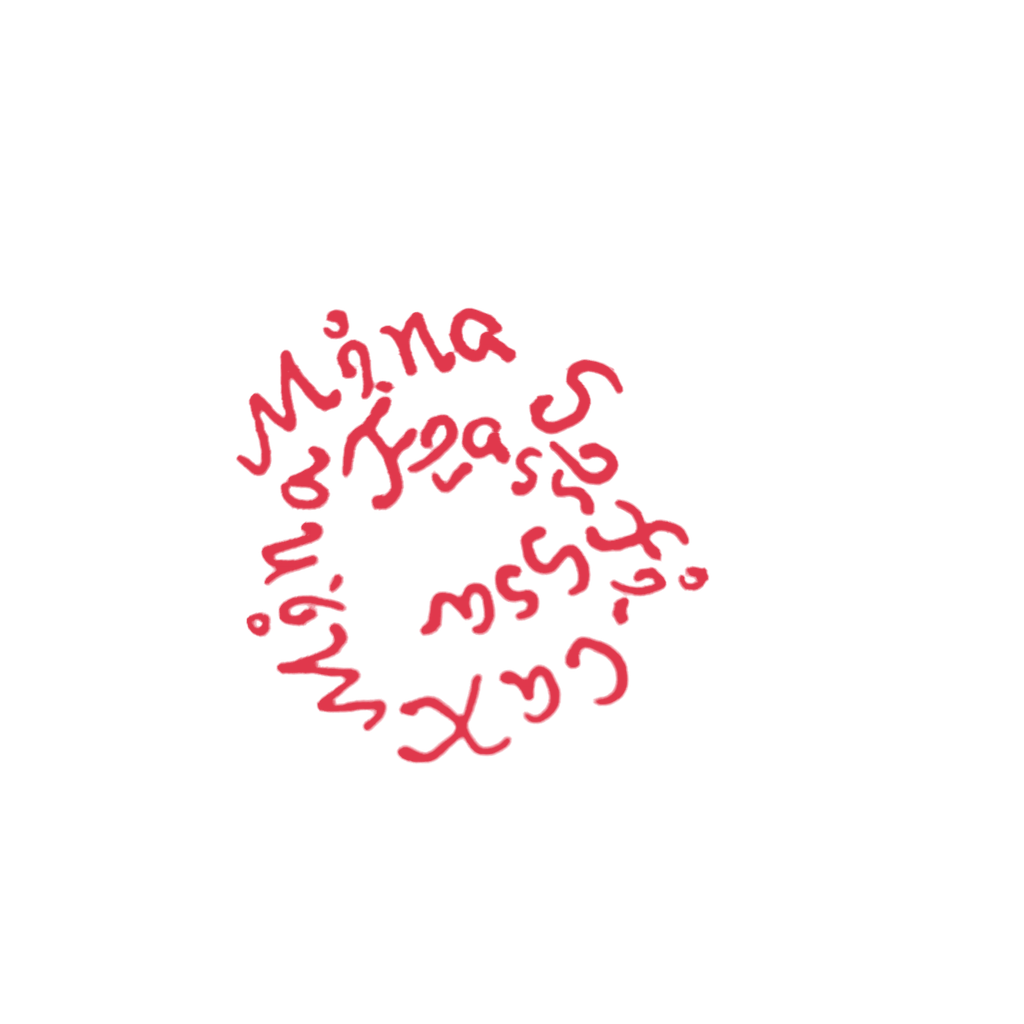
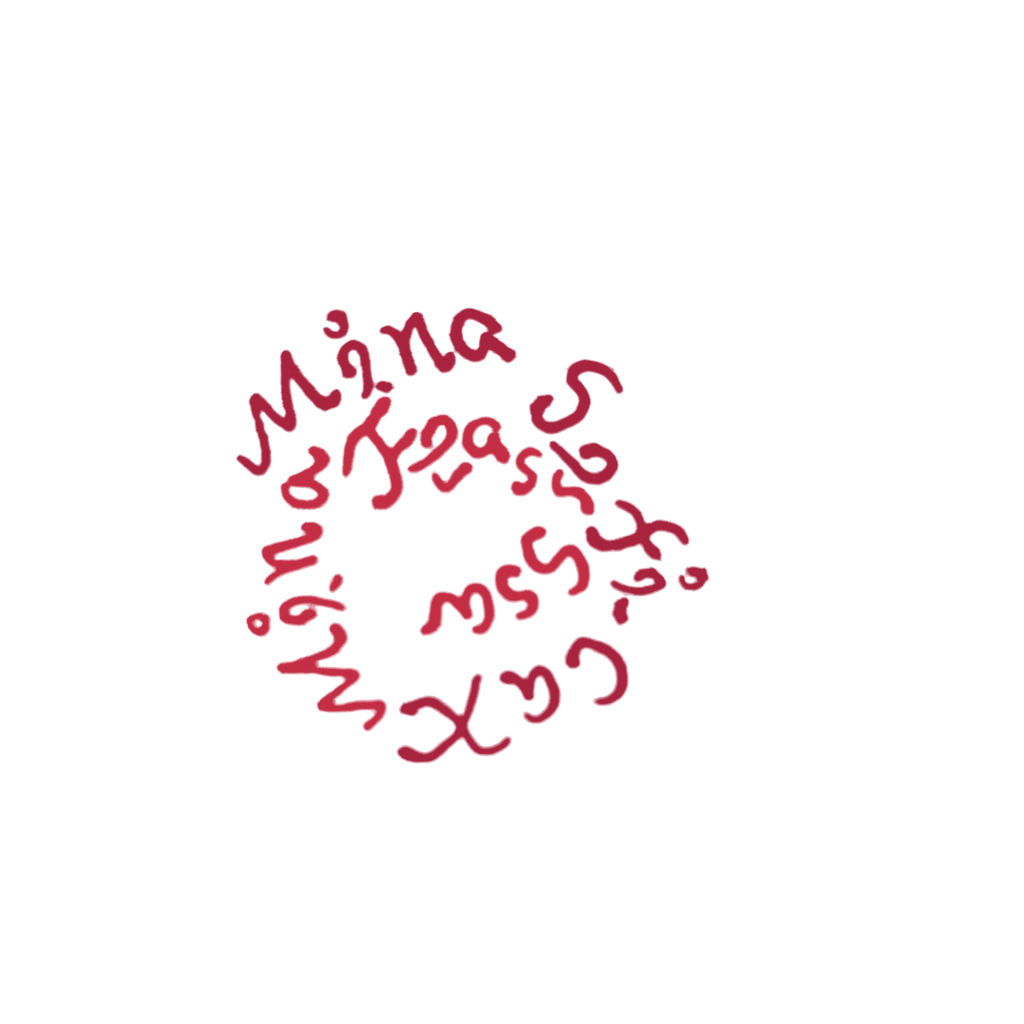
hub: small update

Changed region(s): [[0.2188, 0.2812, 0.6875, 0.75]]

diff --git a/index.html b/index.html
@@ -163,8 +163,8 @@ input[type=password]:disabled,button.go:disabled{opacity:.45;cursor:not-allowed}
   <div class="ring" aria-hidden="true">
     <img class="c4" src="assets/circle/l4.webp?v=1" width="1024" height="1024" alt="" decoding="async" draggable="false">
     <img class="c3" src="assets/circle/l3.webp?v=1" width="1024" height="1024" alt="" decoding="async" draggable="false">
-    <img class="c2" src="assets/circle/l2.webp?v=1" width="1024" height="1024" alt="" decoding="async" draggable="false">
-    <img class="c1" src="assets/circle/l1.webp?v=1" width="1024" height="1024" alt="" decoding="async" draggable="false">
+    <img class="c2" src="assets/circle/l2.webp?v=2" width="1024" height="1024" alt="" decoding="async" draggable="false">
+    <img class="c1" src="assets/circle/l1.webp?v=2" width="1024" height="1024" alt="" decoding="async" draggable="false">
   </div>
   <h1 class="title">OUROBOROS<span class="alch">🜸</span></h1>
   <div class="morse">--- ..- .-. --- -... --- .-. --- ...</div>
